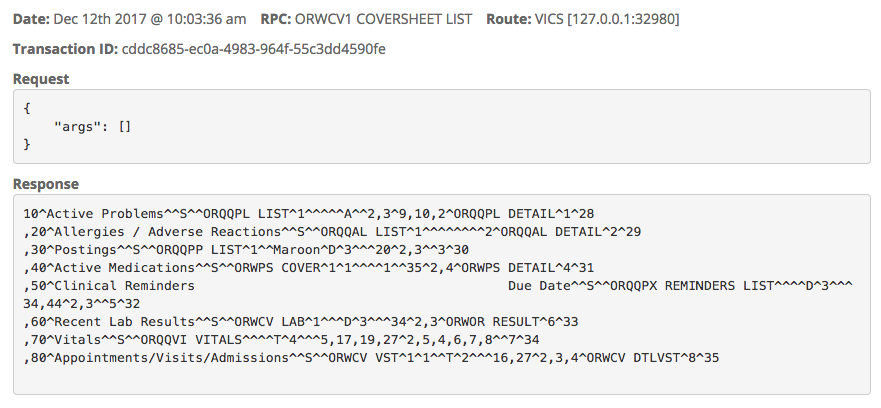
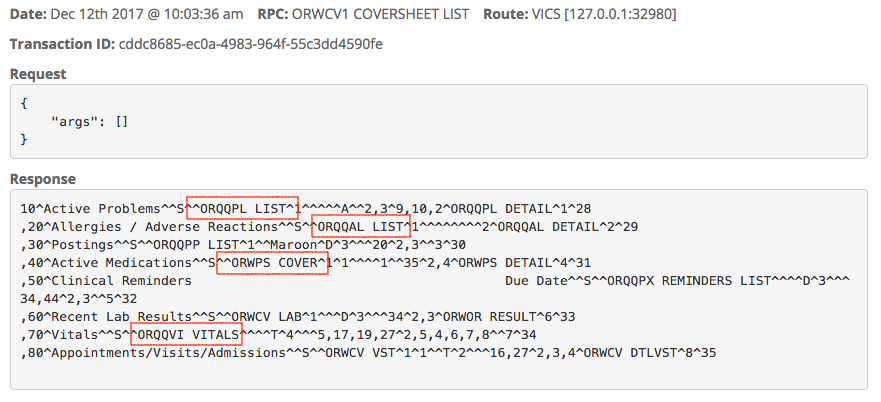
..

diff --git a/demoVAM1/index.md b/demoVAM1/index.md
@@ -5,39 +5,41 @@ title: VAM Demo 1 (Build 1)
 
 # VAM Demonstration Build 1 (December 2017)
 
-The following demo illustrates the components of the _VAM Build 1_ release.
+The following demo illustrates how _VAM Build 1_ establishes the _VICS Architecture_. This architecture enables the incremental migration of VA provider workflow to one set of VA-wide national services and away from 130 separate, legacy VISTA Servers.
+
+_Build 1_ involves four components - the well established VISTA Server and its client CPRS and the VAM-developed _VICS Server_ and _RPC Router_. All but CPRS are hosted on a cloud-based virtual machine at _vamdemo.vistadataproject.info_. 
 
 ![pdeVICSServerSetup -width70](images/pdeVICSServer.png)
 
-_VAM Build 1_ involves four components, a _VISTA_, a _VICS Server_, an _RPC Router_ and a _CPRS Client_. The first three are hosted on a cloud-based VM at _vamdemo.vistadataproject.info_. You must install and run _CPRS_ from your local machine.
+Note how the _VICS Server_ is layered - RPC Emulation is built over well designed VICS Services which store their store in a generic NoSQL store.
 
-Start by opening your browser and opening the _RPC Router Manager_ at _[http://vamdemo.vistadataproject.info:9012](http://vamdemo.vistadataproject.info:9012)_. This client let's you monitor RPC traffic sent by _CPRS_ ...
+Start by opening your browser and going to the _RPC Router Manager_ at _[http://vamdemo.vistadataproject.info:9012](http://vamdemo.vistadataproject.info:9012)_. This web client let's you monitor RPCs sent by CPRS through the Router ...
 
 ![RM Open Empty -width70](images/RM_1_OpenEmpty.png)
 
-It opens to an empty _RPC Events_ tab which lists the RPCs dispatched through Router. The _Route_ column shows which RPCs go to _VISTA_ and which go to the _VICS Server_. 
+It opens to an empty _RPC Events_ tab which lists the RPCs seen by the Router. The _Route_ column shows which RPCs were sent to _VISTA_ and which went to the _VICS Server_. 
 
-Click on the _Management_ tab. The first thing you see is a toggle for controlling whether supported RPCs are routed to the _VICS Server_ or sent to VISTA. 
+Click on the _Management_ tab. The first thing you see is a toggle for controlling whether supported RPCs are routed to the _VICS Server_ or sent to VISTA ...
 
 ![RM Management Top](images/RM_1_MgmtTop.png)
 
-It defaults to _On_ which means the Server will receive any RPC it supports. The second part of the Management tab lists the RPCs supported by the Server ...
+It defaults to _On_ which means the Router will dispatch select RPCs to the Server. The second part of the Management tab lists the RPCs supported by the Server ...
 
 ![RM Management Supported Start](images/RM_1_MgmtSupStart.png)
 
-This list is fetched from the Server by the Router using a custom RPC. As Server coverage grows with each VAM release, the Router will send more and more traffic its way. In _Build 1_, the Server supports _71 VISTA RPCs_ ...
+This list is fetched from the Server by the Router using a custom RPC. In _Build 1_, the Server supports _71 VISTA RPCs_ ...
 
 ![RM Management Supported End](images/RM_1_MgmtSupEnd.png)
 
-Now, switch back to the _RPC Events_ tab and start _CPRS_ ...
+Now, switch back to the _RPC Events_ tab. To run this part of the demo, CPRS must be installed on your local machine. Start _CPRS_ ...
 
 ![CPRS Start](images/CPRS_Start.png)
 
-CPRS should be connected to _vamdemo.vistadataproject.info:9011_. After connecting CPRS presents a login screen ...
+CPRS should be connected to _vamdemo.vistadataproject.info:9011_. After connecting, CPRS presents a login screen ...
 
 ![CPRS Login](images/CPRS_Login.png)
 
-Back in the _Router Manager_, the _RPC Events_ tab shows the three RPCs sent by CPRS, all of which were routed to VISTA ...
+Back in the _Router Manager_, the _RPC Events_ tab shows the three RPCs sent by CPRS ...
 
 ![RM Connect Before Login](images/RM_2_ConnectBeforeLogin.png)
 
@@ -58,7 +60,7 @@ Now briefly go back to CPRS and login as Dr Robert Alexander using the following
    Verify Code: 1doc!@#$
 ```
 
-Back in the _Router Manager_, RPC after RPC cascades through the _RPC Event_ tab. CPRS is very "chatty" - Before any patient is selected, it sends over 80 RPCs. RPCs supported by the _VICS Server_ go to the server, not VISTA. As the Server emulates CPRS' RPC interface, CPRS proceeds as if all of its interactions are with the VISTA ...
+Back in the _Router Manager_, RPC after RPC cascades through the _RPC Event_ tab. CPRS is very "chatty" - before any patient is selected, it sends over 80 RPCs. RPCs supported by the _VICS Server_ go to the server, not VISTA but CPRS proceeds as if all of its traffic goes to and from VISTA ...
 
 ![RM Post Logon](images/RM_3_5TAB_LIST_HIGHUSERINFO.png)
 
@@ -66,9 +68,9 @@ Note that even before patient selection, CPRS has sent five pages of RPCs, some 
 
 ![RM_O_ORWU_DT](images/RM_O_ORWU_DT.png)
 
-which is now handled by the VICS Server's _Time Service_.
+This and other date and time queries are now handled by the VICS Server's _Time Service_.
 
-The RPC, _XUS GET USER INFO_ is highlighted in red. Clicking on that row of the table brings up its details ...
+The RPC, _XUS GET USER INFO_ is highlighted in red. Clicking on that row of the table brings up that RPC's details ...
 
 ![RM_3_ORQPT_DEFAULT_LIST_SOURCE](images/RM_3_XUS_GET_USER_INFO.png)
 
@@ -92,21 +94,25 @@ mainly from ...
 
 As the image above shows, in Build1, this RPC continues to be processed by VISTA in _Build 1_ - unlike user information, patient data is not yet in the VICS Server. It will migrate in _Build 2_.
 
-Clicking _Ok_ will bring you to the Patient's Chart ...
+Clicking _Ok_ will bring you to the Patient's "Coversheet" ...
 
 ![CPRS Coversheet](images/CPRS_Coversheet.png)
 
-and fill two more tabs of RPCs from VistA (__TODO__) ...
+and fill another tab of RPCs in the Router Manager ...
 
-![RM_3_6TABS](images/RM_3_6TABS.png)
+![RM_6TABS](images/RM_6TABS.png)
 
-one of which is the VICS Server-supported _ORWCV1 COVERSHEET LIST_ ...
+The VICS Server stores coversheet configurations for different users in its _Parameter Service_. In Build 1's demo, that service holds configurations of one VISTA but this and other VICS services have been built to hold and manage data from all 130 VA VISTAs.
+
+Configurations are returned in the VICS-supported RPC, _ORWCV1 COVERSHEET LIST_, ...
 
 ![RM_3_ORWCV1_COVERSHEET_LIST](images/RM_3_ORWCV1_COVERSHEET_LIST.png)
 
-an RPC that tells CPRS what to show in its _coversheet_. Just like VISTA, the VICS Server supports different coversheet configurations for different users in a _Parameter Service_. This service could manage the preferences, permissions and settings of all CPRS users in the VA.
+This RPC not only tells CPRS what data to show in its _coversheet_ including the allergies, vitals, problems and prescriptions. It also specifies further RPCs to invoke to return such data for the selected patient. The sixth tab shows those RPCs are invoked. For example, _ _ lists the allergies of a patient ...
 
-__TODO__: go through any Allergy, Problem, Vital called in this first sequence up to coversheet.
+![RM_5_ORQQAL_LIST](images/RM_5_ORQQAL_LIST.png)
+
+Like other patient data, this RPC is routed to VISTA in Build 1. Build 2 will migrate this and other patient data to the _VICS Server_.
 
 Finally, when you exit from CPRS ...
 
